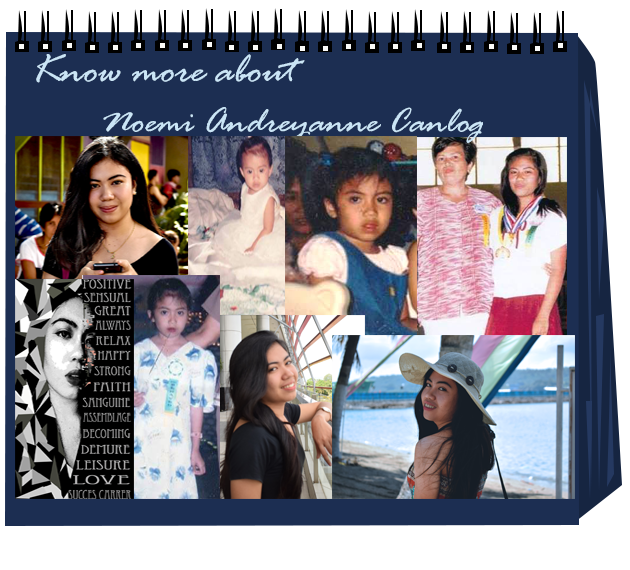
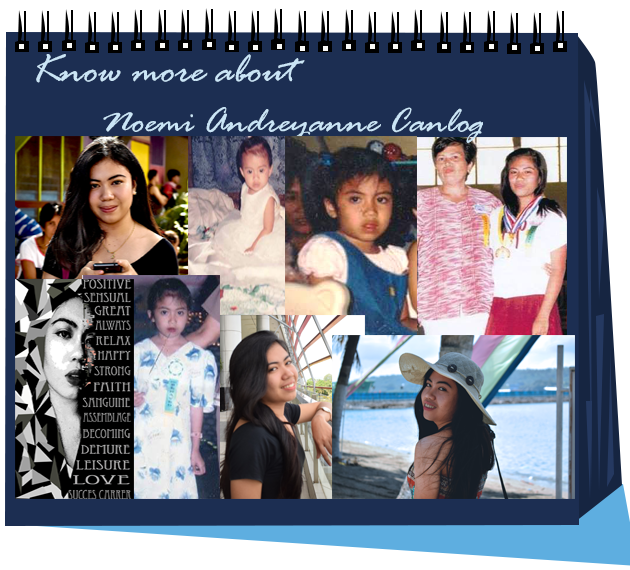
Setting the position for images books and cup

Changed region(s): [[0.1206, 0.8351, 1.0, 1.0]]

diff --git a/Aboutpage/about.css b/Aboutpage/about.css
@@ -2,7 +2,7 @@ body
 {
 	margin: 0px;
 	padding: 0px;
-	background-color: #B0E0E6;
+	background-color: #80bfff;
 }
 
 #loading
@@ -105,6 +105,37 @@ body
 .design-shift-down
 {
 	animation-name: shift-down;
+    animation-duration: 1s;
+    animation-timing-function: ease-out;
+    animation-fill-mode: forwards;
+}
+
+#design-books
+{
+	position: absolute;
+	width: 240px;
+	height: 270px;
+	left: 50%;
+	top: 50%;
+	margin-left: 320px;
+	margin-top: 30px;
+	background-image: url(./images/books.png);
+}
+
+#design-cup
+{
+	position: absolute;
+	width: 190px;
+	height: 300px;
+	left: 50%;
+	top: 50%;
+	margin-left: 500px;
+	margin-top: -10px;
+	background-image: url(./images/cup.png);
+}
+.design-shift-left
+{
+	animation-name: shift-left;
     animation-duration: 1s;
     animation-timing-function: ease-out;
     animation-fill-mode: forwards;

diff --git a/Aboutpage/AboutMe.html b/Aboutpage/AboutMe.html
@@ -27,8 +27,10 @@
 			<div id="design-notes" class="design-shift-up" ></div>
 
 			<div id="design-case" class="design-shift-down" ></div>
-			
 
+			<div id="design-books" class="design-shift-down" ></div>
+			
+			<div id="design-cup" class="design-shift-left" ></div>
 
 	</body>				
 
